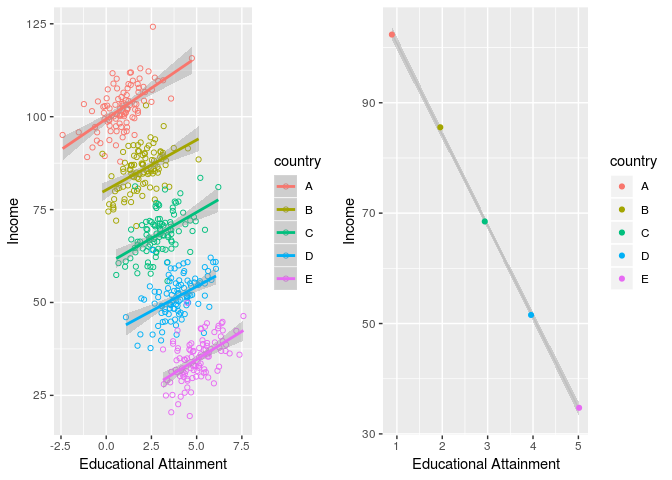
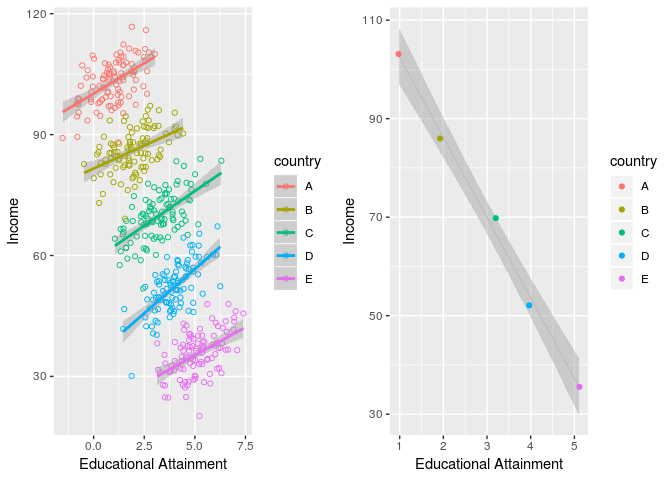
ecofall

diff --git a/_posts/2019-07-17-ecofall.md b/_posts/2019-07-17-ecofall.md
@@ -1,0 +1,47 @@
+-   이 문서는 Rmarkdown을 사용하여 작성됐습니다.
+
+성평등의 역설: 생태적 오류는 어떻게 발생하는가?
+===============================================
+
+*성평등의 역설*은 페이스북의
+[게시물](https://www.facebook.com/permalink.php?story_fbid=730109564057610&id=303765500025354)에서
+보셨듯이 아무런 의미가 없는 현상입니다. 오래전부터 통계학에서 유명했던
+생태적 오류(Ecologic Fallacy)의 전형일 뿐입니다. 생태적 오류에 대해서는
+이전에 [Lippa (2009)](https://hanbin973.github.io/lippa/main.html)를
+논하면서 다룬 바 있습니다. 이전에는 데이터 마사지를 통해 통계적 유의성을
+얻는 과정을 보여드렸다면 오늘은 좀 더 직관적인 그림과 예제를 통해 이를
+다시 확인하겠습니다.
+
+가상의 5개 국가 A~E를 가정하고 국가 안에서는 교육수준이 높아질수록
+소득이 높아짐에도 불구하고 국가간 비교에서 교육수준이 높아질수록 소득이
+감소하는 상황을 만들어보겠습니다.
+
+<center>
+![](/img/ecofall/unnamed-chunk-2-1.png)
+
+</center>
+좌측 그림은 각 국가별(색깔로 구분)로 교육수준(Educational Attainment)에
+따른 소득수준(Income)을 나타낸 것입니다. 그림에서 볼 수 있듯이 각 국가
+안에서는 교육수준이 증가할수록 소득수준이 증가하는 것을 관찰할 수
+있습니다.
+
+우측 그림은 교육수준과 소득수준을 평균 낸 뒤 그래프를 그린 것입니다.
+좌측 그림과는 다르게 교육수준이 증가할수록 소득수준이 감소하는 것을
+관찰할 수 있습니다.
+
+좌측 그림과 우측 그림 중 무엇이 더 정확할까요? 당연히 좌측 그림이 더
+정확합니다. 우측 그림은 좌측 그림을 그리는데 사용한 데이터를 평균내서
+필요한 정보들이 소실된 결과물이기 때문이죠. 이래서 국가간 평균값을
+비교하는 것은 국가 안의 개인의 정보를 추정하는데 도움이 되지 않습니다.
+그리고 이러한 정보소실을 이용해 거짓된 사실을 선동하는 사람들이
+'성평등의 역설' 이라니 '백신은 자폐를 유발' 한다드니 떠들고 다니는
+것이지요.
+
+Gordis (2013) 를 참고하였습니다
+
+참고문헌
+--------
+
+Gordis, Leon. 2013. *Epidemiology: With Student Consult Online Access
+(Gordis, Epidemiology)*. Saunders.
+<https://www.amazon.com/Epidemiology-STUDENT-CONSULT-Online-Access/dp/145573733X?SubscriptionId=AKIAIOBINVZYXZQZ2U3A&tag=chimbori05-20&linkCode=xm2&camp=2025&creative=165953&creativeASIN=145573733X>.
